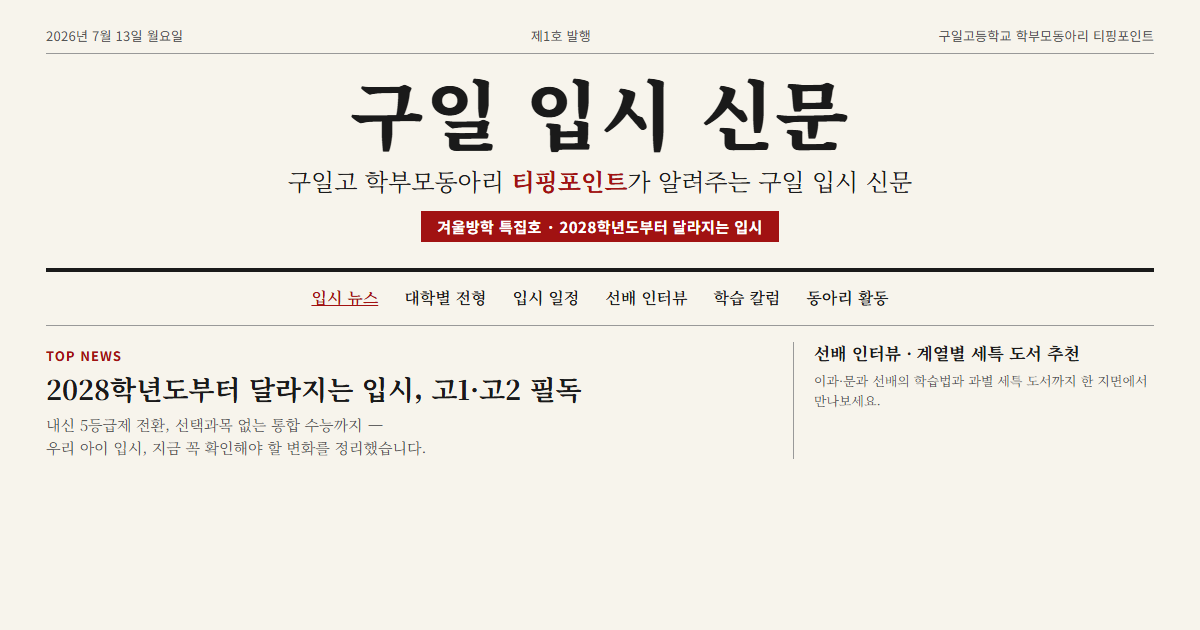
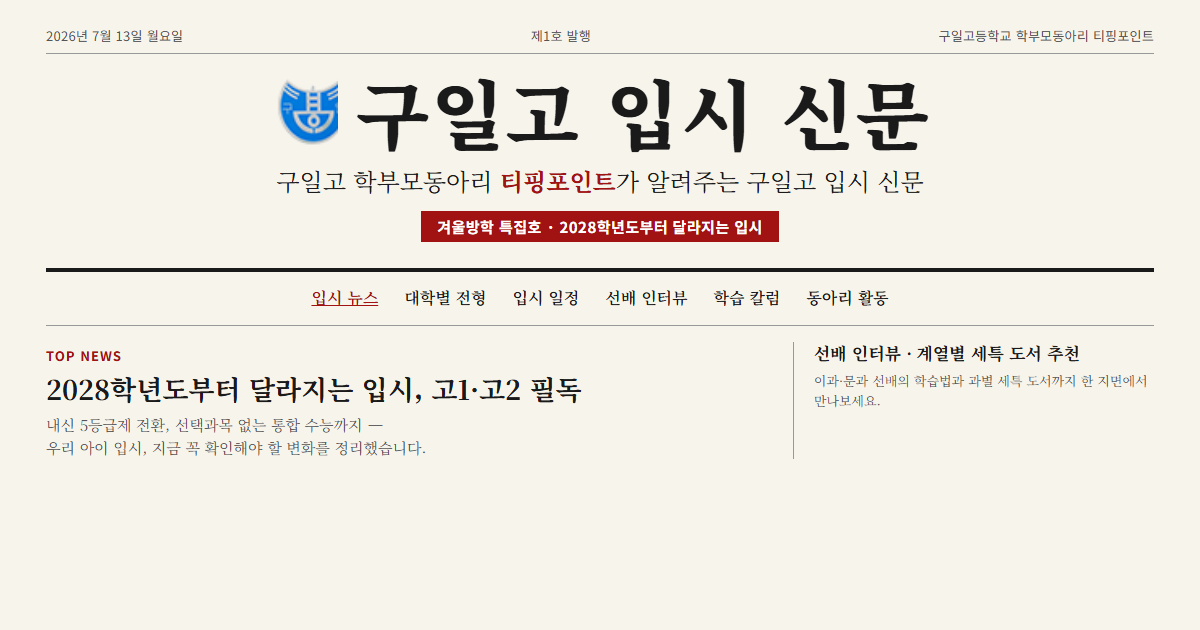
Rename to 구일고 입시 신문 and add school emblem
Uses the official school mark cropped from guil.sen.hs.kr's header
logo, placed before the masthead title. Also updates the OG preview
image to match the new title and branding.

Changed region(s): [[0.2158, 0.1206, 0.7708, 0.2413], [0.2158, 0.2714, 0.7708, 0.3317]]

diff --git a/assets/style.css b/assets/style.css
@@ -48,11 +48,21 @@ body {
 }
 
 .masthead-title {
+  display: flex;
+  align-items: center;
+  justify-content: center;
+  gap: 10px;
   font-family: 'Noto Serif KR', serif;
   font-weight: 900;
   font-size: 36px;
   margin: 0;
   letter-spacing: 0.02em;
+}
+
+.masthead-mark {
+  width: 34px;
+  height: 34px;
+  object-fit: contain;
 }
 
 .masthead-sub {

diff --git a/index.html b/index.html
@@ -3,13 +3,13 @@
 <head>
 <meta charset="UTF-8">
 <meta name="viewport" content="width=1000">
-<title>구일 입시 신문</title>
+<title>구일고 입시 신문</title>
 <meta name="description" content="구일고등학교 입시 정보, 학부모동아리 티핑포인트가 알려드립니다.">
 
 <!-- Open Graph / 카카오톡 공유 미리보기 -->
 <meta property="og:type" content="website">
-<meta property="og:site_name" content="구일 입시 신문">
-<meta property="og:title" content="구일 입시 신문">
+<meta property="og:site_name" content="구일고 입시 신문">
+<meta property="og:title" content="구일고 입시 신문">
 <meta property="og:description" content="구일고등학교 입시 정보, 학부모동아리 티핑포인트가 알려드립니다.">
 <meta property="og:image" content="https://mcsejy.github.io/guil-adm-news/assets/og-image.png">
 <meta property="og:url" content="https://mcsejy.github.io/guil-adm-news/">
@@ -30,7 +30,7 @@
 
   <!-- 마스트헤드 -->
   <header class="masthead">
-    <h1 class="masthead-title">구일 입시 신문</h1>
+    <h1 class="masthead-title"><img src="assets/guil-mark.png" alt="구일고등학교 마크" class="masthead-mark">구일고 입시 신문</h1>
     <p class="masthead-sub">학부모동아리 <strong>티핑포인트</strong>가 전하는 우리 아이 입시 정보</p>
     <p class="masthead-issue">겨울방학 특집호 · 2028학년도부터 달라지는 입시, 고1·고2 필독</p>
   </header>